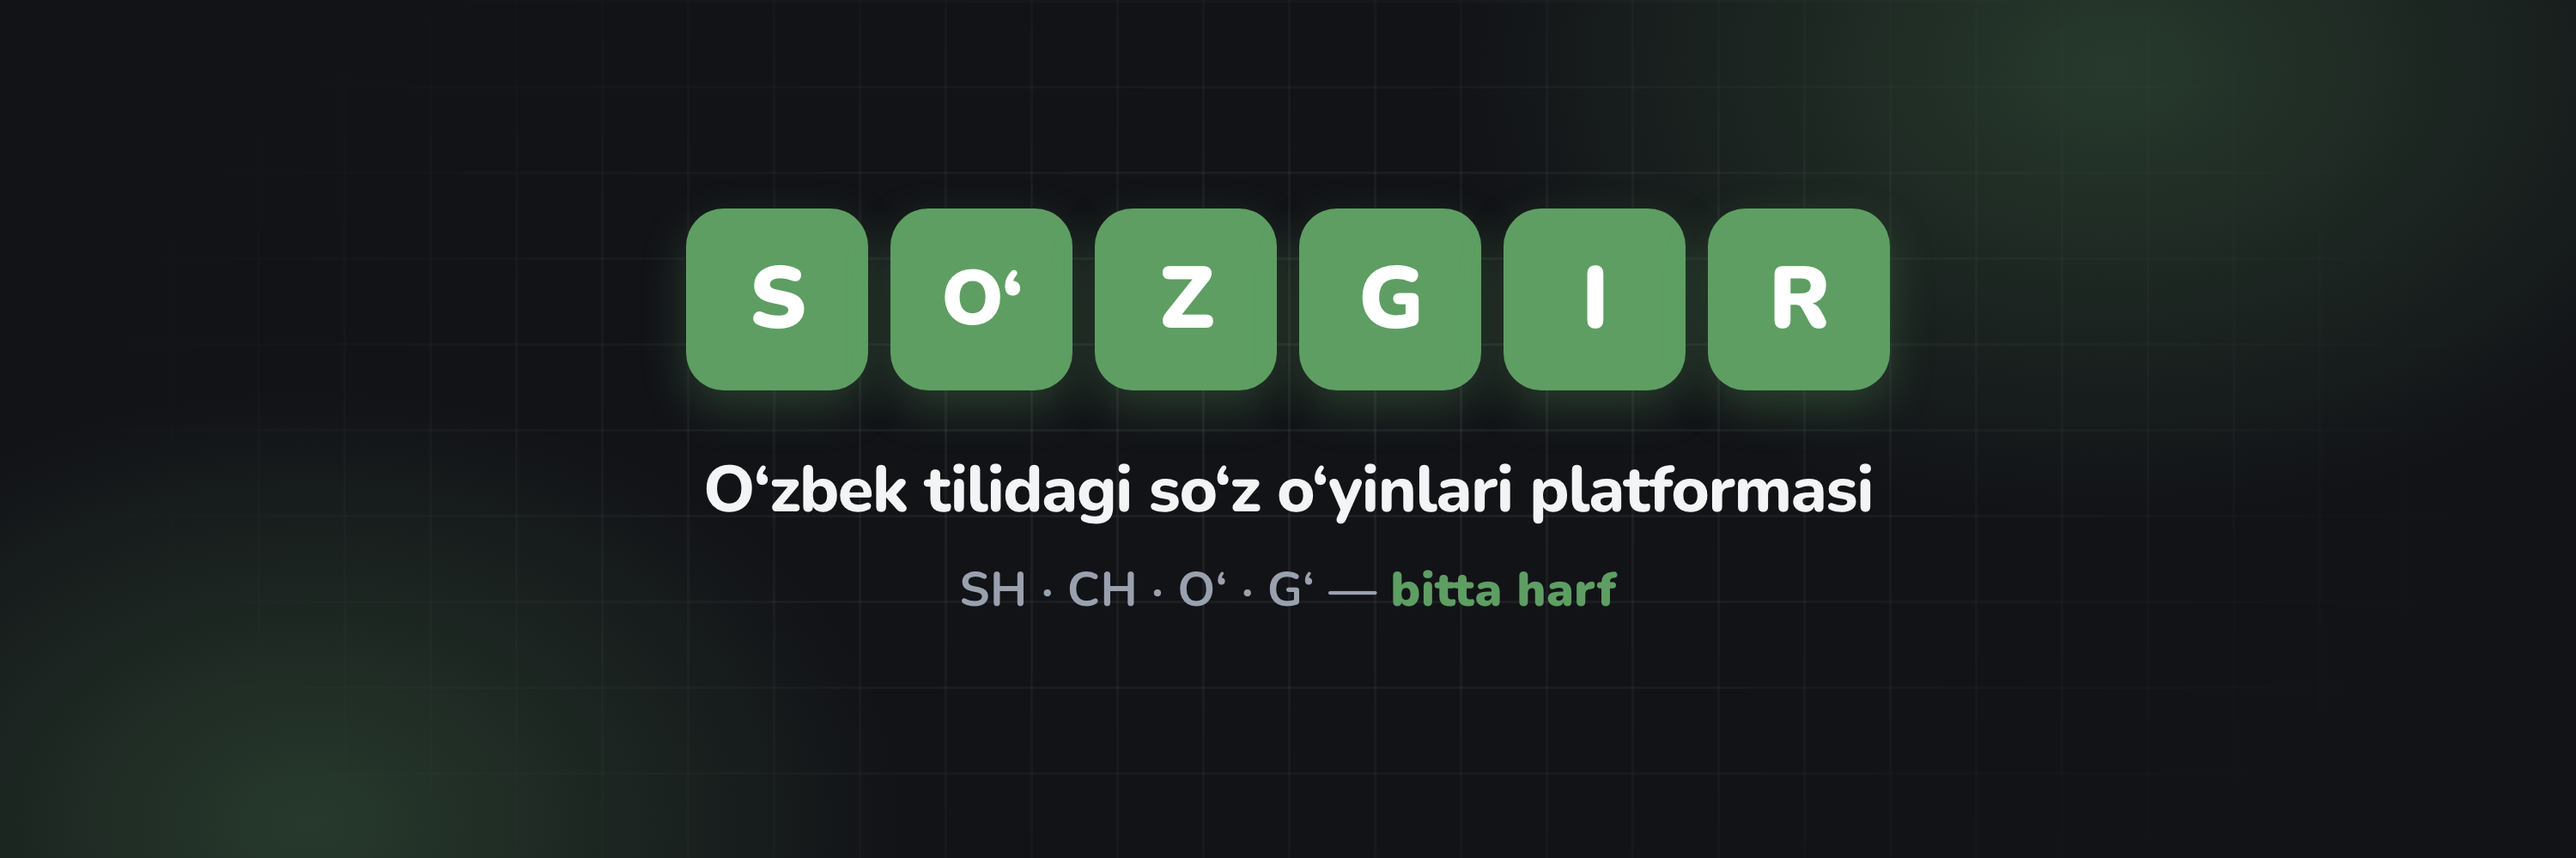
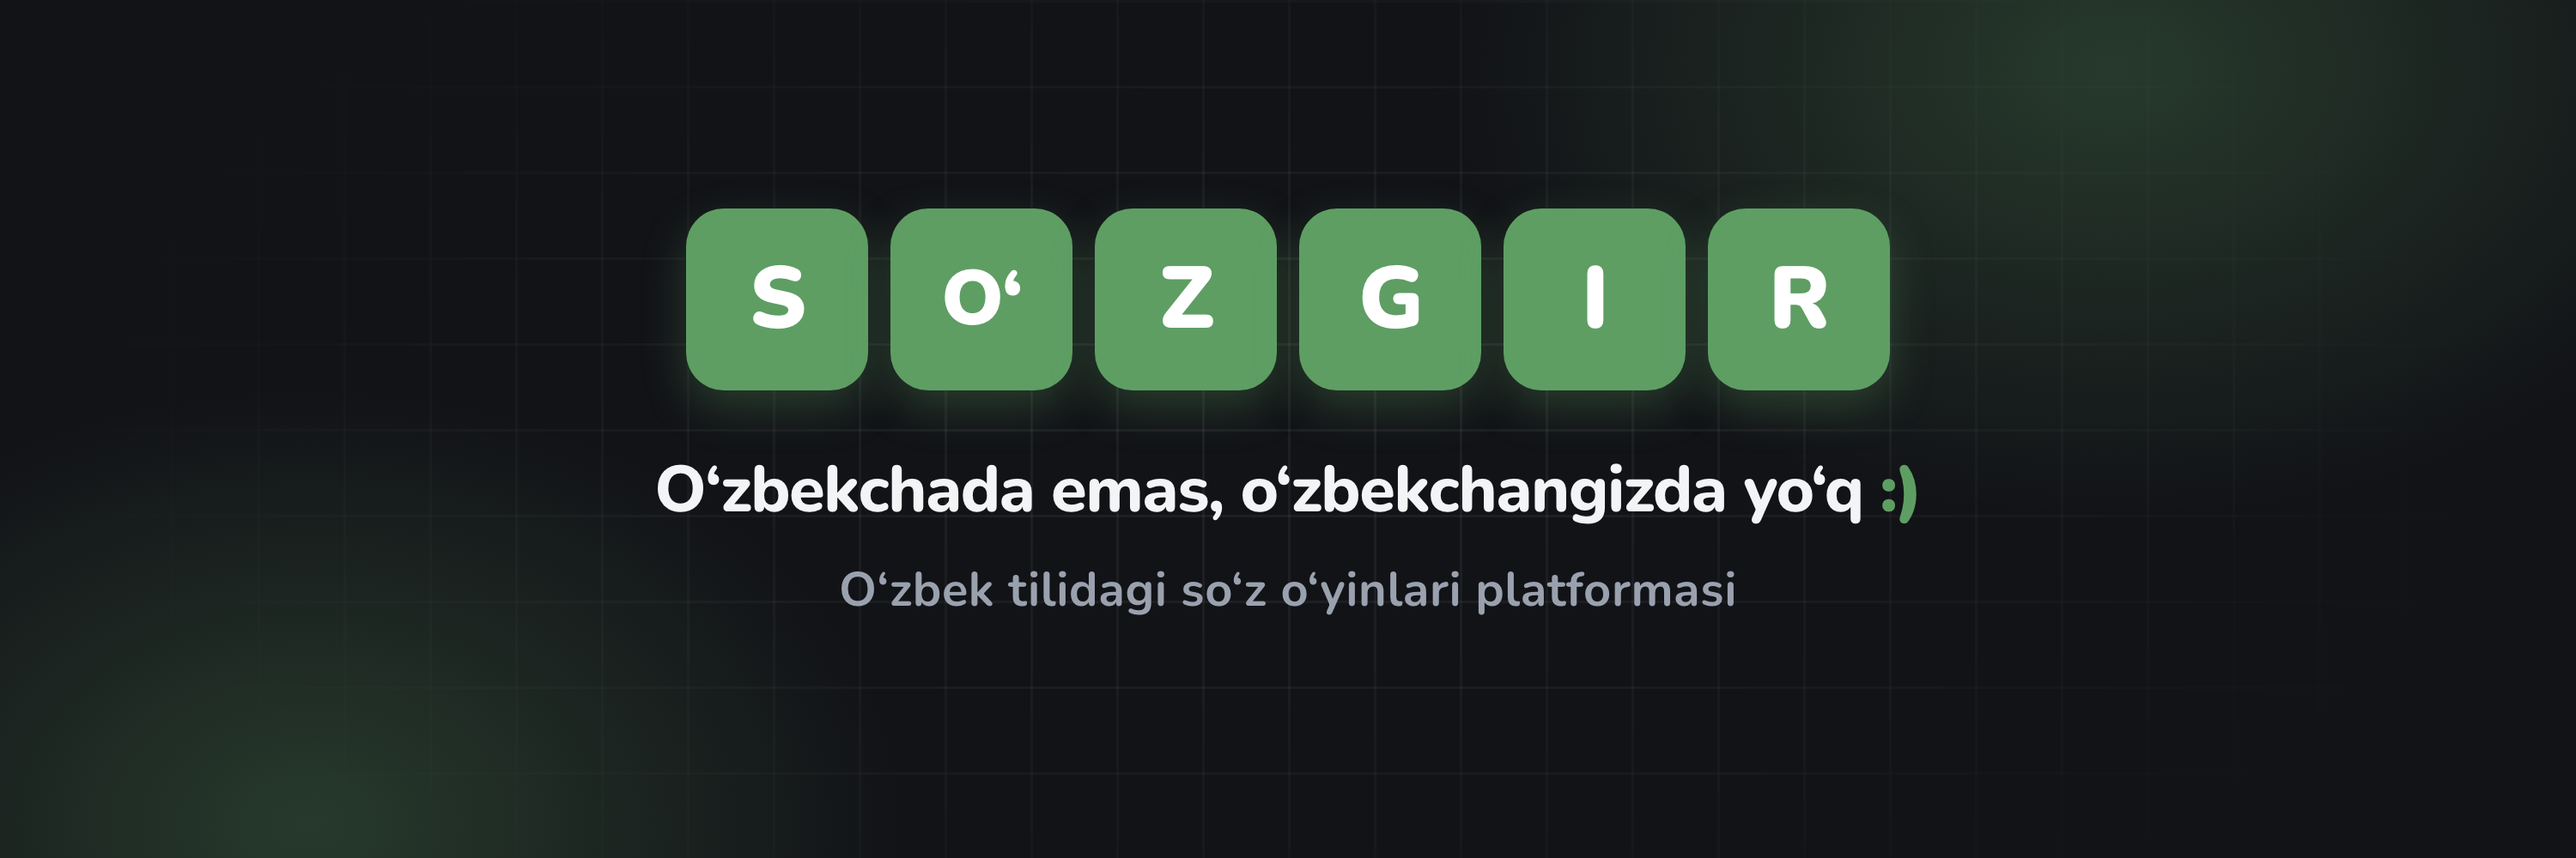
X headeriga splash slogani va profil rasmi
Header sarlavhasi endi ilovaning splash ekranidagi slogan (AppStrings.appTagline),
platforma tavsifi ikkinchi qatorga tushdi.

Profil rasmi uchun ilova logotipidagi blokli "S" olindi — Nunito varianti 40px
da tanib bo'lmas edi. Uch xil fon: yashil, tungi, yorug'.

Changed region(s): [[0.248, 0.527, 0.744, 0.62], [0.31, 0.651, 0.682, 0.713]]

diff --git a/brand/x-avatar.html b/brand/x-avatar.html
@@ -1,0 +1,55 @@
+<!doctype html>
+<!-- X profil rasmi — 400×400. X uni aylana qilib kesadi va lentada 40–48px
+     gacha kichraytiradi, shuning uchun tarkib bitta blokli harf.
+
+     Belgi — ilova logotipidagi (SozgirMark) birinchi glif, 5×5 katak.
+     ?v=dark | ?v=light — fon varianti. Render: brand/render.sh -->
+<html lang="uz">
+  <head>
+    <meta charset="UTF-8" />
+    <style>
+      * { margin: 0; box-sizing: border-box; }
+
+      /* Fon to'liq to'shaladi — aylana kesuvida burchaklar yo'qoladi,
+         shuning uchun ramka ham, chekka ham kerak emas. */
+      body {
+        width: 400px;
+        height: 400px;
+        overflow: hidden;
+        display: grid;
+        place-items: center;
+        background: #63a967;
+      }
+      body[data-v='dark'] { background: #121317; }
+      body[data-v='light'] { background: #ffffff; }
+
+      /* Aylana kesuvi burchaklarni oladi: belgi diametrning ~49% ida
+         tursa, hech qachon kesilmaydi va nafas oladi. */
+      svg {
+        display: block;
+        width: 196px;
+        height: 196px;
+      }
+
+      .ink { fill: #ffffff; }
+      body[data-v='dark'] .ink { fill: #f3f4f6; }
+      body[data-v='light'] .ink { fill: #16181d; }
+    </style>
+  </head>
+  <body>
+    <svg viewBox="0 0 5 5" shape-rendering="crispEdges">
+      <g class="ink">
+        <rect x="0" y="0" width="5" height="1" />
+        <rect x="0" y="1" width="1" height="1" />
+        <rect x="0" y="2" width="5" height="1" />
+        <rect x="4" y="3" width="1" height="1" />
+        <rect x="0" y="4" width="5" height="1" />
+      </g>
+    </svg>
+
+    <script>
+      const v = new URLSearchParams(location.search).get('v');
+      if (v) document.body.dataset.v = v;
+    </script>
+  </body>
+</html>

diff --git a/brand/x-header.html b/brand/x-header.html
@@ -142,9 +142,10 @@
         <span class="tile">R</span>
       </div>
 
+      <!-- Slogan ilovaning splash ekranidan: AppStrings.appTagline -->
       <div class="copy">
-        <h1>O‘zbek tilidagi so‘z o‘yinlari platformasi</h1>
-        <p>SH · CH · O‘ · G‘ — <b>bitta harf</b></p>
+        <h1>O‘zbekchada emas, o‘zbekchangizda yo‘q <b>:)</b></h1>
+        <p>O‘zbek tilidagi so‘z o‘yinlari platformasi</p>
       </div>
     </div>
 

diff --git a/brand/x-profile.md b/brand/x-profile.md
@@ -32,10 +32,37 @@ kirgan odam ilova nima qilishini bir o'qishda tushunadi.
 | Sayt | `https://sozgir-landing.vercel.app` |
 | Joylashuv | O‘zbekiston |
 
+## Profil rasmi (logo)
+
+`x-avatar-green.png` · `x-avatar-dark.png` · `x-avatar-light.png` — 800×800
+(400×400 @2x). X uni aylana qilib kesadi.
+
+Belgi — ilova logotipidagi (`SozgirMark`) blokli «S», ya'ni splash ekranidagi
+yozuv bilan bir xil til. Diametrning ~49% ini egallaydi, shuning uchun aylana
+kesuvida hech qachon kesilmaydi.
+
+**Yashil variant tavsiya etiladi:** lentada 40px gacha kichrayganda ham yashil
+doira darhol ko'zga tashlanadi va tungi header bilan juftlashadi.
+
+> Nunito shriftidagi «S» ham sinaldi — u kichik o'lchamda tanib bo'lmas holga
+> keldi, shuning uchun blokli variant tanlandi.
+
 ## Header rasmi
 
 `x-header-light.png` va `x-header-dark.png` — 3000×1000 (1500×500 @2x, X
 tavsiya qilgan nisbat 3:1).
+
+Bosh qatordagi slogan ilovaning splash ekranidan olingan
+(`AppStrings.appTagline`).
+
+> **Diqqat — imlo.** Ilovada slogan `O‘zbechada emas, o‘zbekchangizda yo‘q :)`
+> deb yozilgan. «O‘zbechada» da `k` tushib qolgan, ikkinchi yarmi esa
+> «o‘zbekchangizda» — parallel tuzilish `O‘zbekchada` ni talab qiladi.
+> Rasmda to'g'rilangan shakl ishlatildi. Aynan ilovadagidek kerak bo'lsa,
+> `x-header.html` dagi `<h1>` ni almashtirib qayta chizing.
+>
+> Xuddi shu xato ilovaning o'zida ham turibdi —
+> `lib/core/constants/app_strings.dart`, 12-qator.
 
 Tungi variant tavsiya etiladi: X foydalanuvchilarining ko'pchiligi qorong'i
 mavzuda o'tiradi va yashil kataklar qora fonda kuchliroq ajralib turadi.
